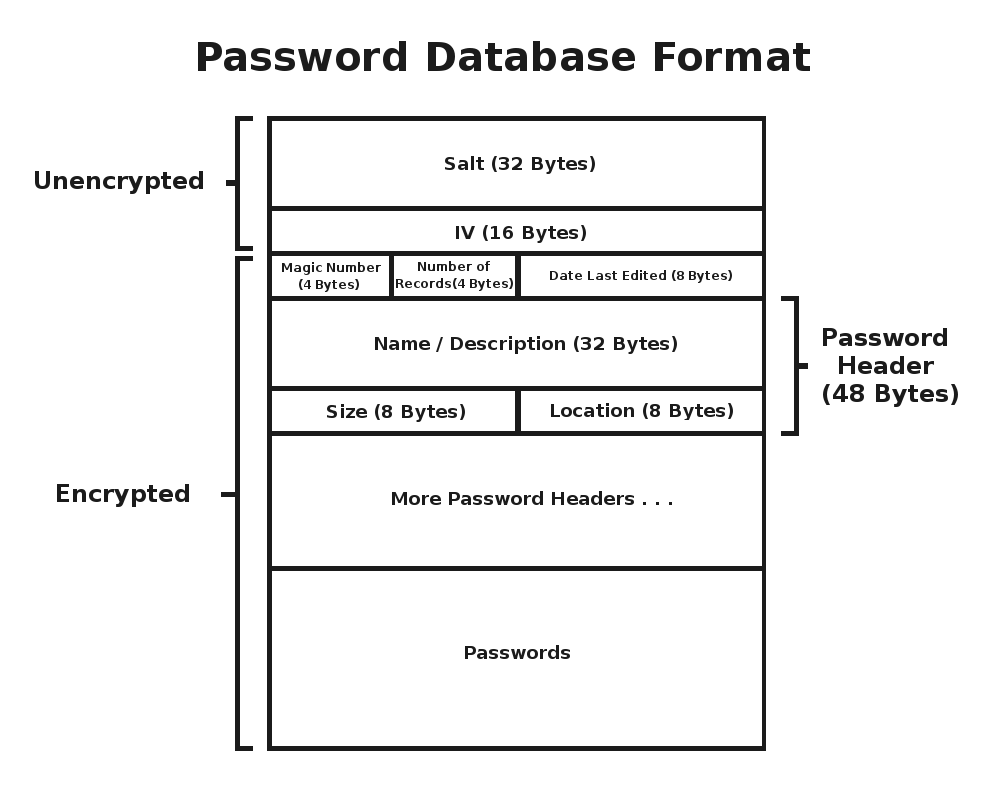
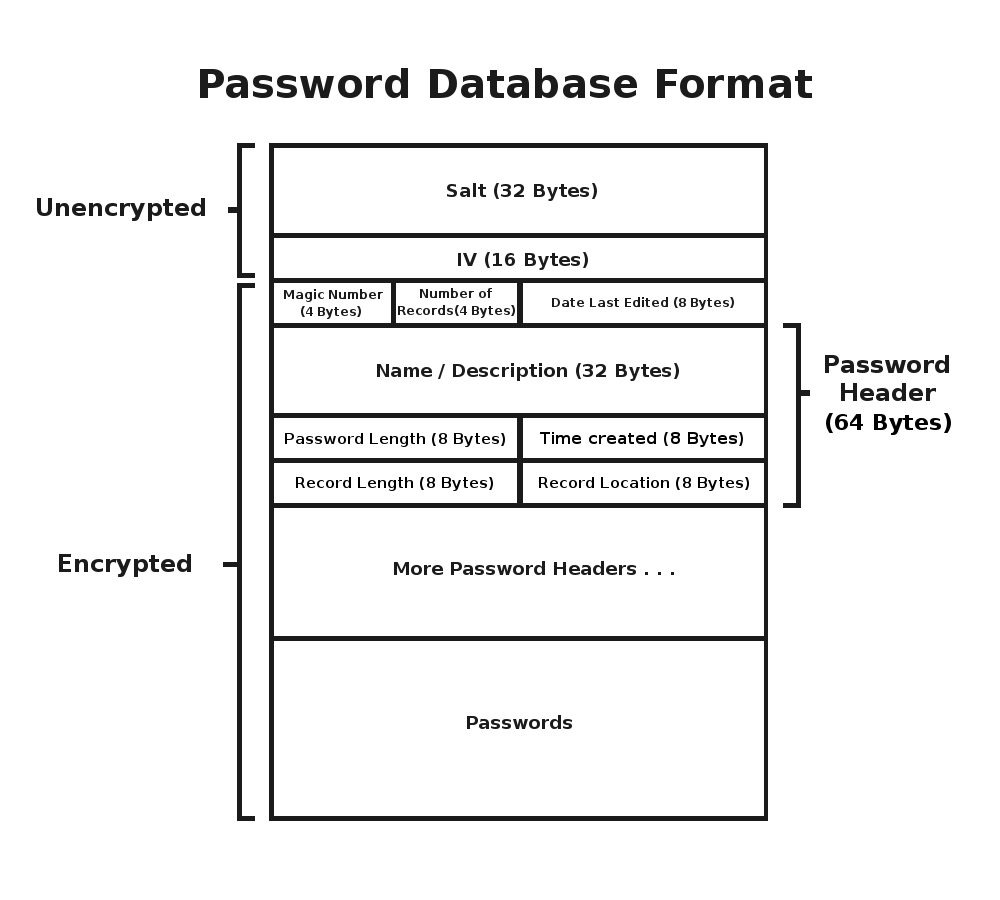
Updated graphic and integrated it with README

diff --git a/README.md b/README.md
@@ -11,3 +11,6 @@ database).
 The encryption of the databases is handled using the AES256 
 implementation provided by libgcrypt. This means that building and 
 running the binary requires access to this shared library.
+#Database Format
+The format for the encrypted database files can be seen in the graphic below:
+![DB_FORMAT](pass.png?raw=true "Database Format")
